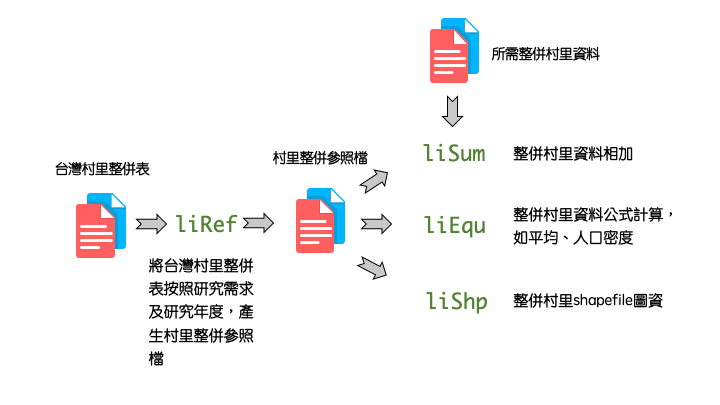
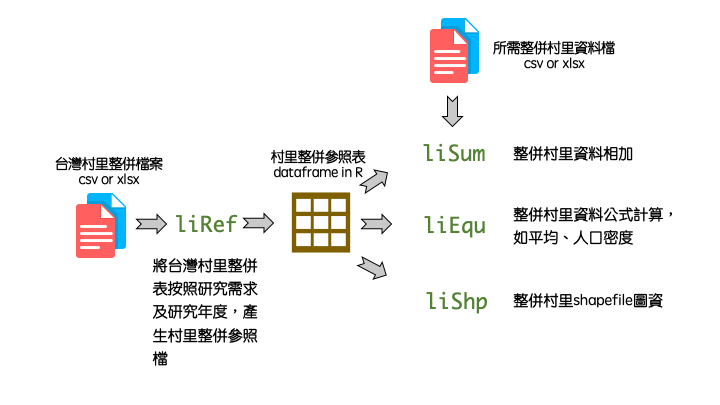
update twli code and readme

diff --git a/README.md b/README.md
@@ -1,40 +1,52 @@
+<style>
+table:nth-of-type(1) {
+    display:table;
+    width:100%;
+}
+table:nth-of-type(1) th:nth-of-type(2) {
+    width:10%;
+}
+</style>
+
 # twli
 
-台灣里套件
+台灣里R套件
 
 版本：0.01
 
-簡介：
+### 簡介：
 
 台灣約有7700多個村里，由於人口流動、行政區重新區劃，村里時常進行整併，村里整併問題造成跨年度村里分析、研究時的極大難題。台灣里套件將研究分析年度的村里整併情況進行彙整，讓使用者能根據彙整結果將各年度的村里相關數據合併後能保持一致，以利合併為各年度村里相同的面板數據（panel data）。
 
-使用說明：
+### 使用說明：
 
-1. 處理流程：
 
-![](https://github.com/torrentpien/twli/blob/master/%E7%A4%BA%E6%84%8F%E5%9C%96.png?raw=true)
+#### 1. 處理流程：
 
-台灣里套件目前初步開發四個函數，分別為liRef、liSum、liEqu、liShp，四個函數的功能及與所需整併資料的關係如下：
+  ![](https://github.com/torrentpien/twli/blob/master/%E7%A4%BA%E6%84%8F%E5%9C%96.png?raw=true)
 
-台灣村里整併表：按照台灣里套件規格編制的台灣村里整併表，對台灣里套件使用者來說，台灣村里整併表為基礎資料表格，需不斷增補與更新，紀錄研究分析所需的村里合併或分割資料，透過其他台灣里函數，將村里整併表中的紀錄進行各種村里整併。台灣村里整併表編制規格請參考。
+  台灣里套件目前初步開發四個函數，分別為liRef、liSum、liEqu、liShp，四個函數的功能及與所需整併資料的關係如下：
 
-所需整併村里資料：研究者需要整併的資料。需包含村里代碼欄位，建議使用內政部村里代碼，如桃園市桃園區文化里的村里代碼為：6800100-001。
+**台灣村里整併檔案：**按照台灣里套件規格編制的台灣村里整併檔案，使用者可按照自己的需求以csv、xlsx或其他檔案格式進行記錄。對台灣里套件使用者來說，台灣村里整併檔案為基礎資料表格，需不斷增補與更新，紀錄研究分析所需的村里合併或分割資料，透過其他台灣里函數，將村里整併檔案中的內容進行各種村里整併。台灣村里整併表編制規格請參考。
 
-liRef函數：按照研究的年度範圍及所需整併的檔案年度，將台灣村里整併表整理後產生村里整併參照檔。
+**所需整併村里資料檔：**研究者需要整併的資料。需包含村里代碼欄位，建議使用內政部村里代碼，如桃園市桃園區文化里的村里代碼為：6800100-001。
 
-村里整併參照檔：liRef函數產生的數據框（dataframe），內容為所需整併村里的分組列表，以利liSum、liEqu、liShp等函數進行運算。
+**liRef**函數：按照研究的年度範圍及所需整併的檔案年度，將台灣村里整併檔案整理後產生村里整併參照表。
 
-liSum函數：需整併村里資料的相加。
+**村里整併參照表**：liRef函數產生的R數據框（dataframe），內容為所需整併村里的分組列表，以利liSum、liEqu、liShp等函數進行運算。
 
-liEqu函數：許多需整併村里資料不是簡單的相加，需要各欄位運算後產生新數字，台灣里套件提供使用者自訂公式，計算村里整併後的新數據。
+**liSum**函數：需整併村里資料的相加。
 
-liShp函數：將村里shapefile圖資按照村里整併參照檔進行整併。
+**liEqu**函數：許多需整併村里資料不是簡單的相加，需要各欄位運算後產生新數字，台灣里套件提供使用者自訂公式，計算村里整併後的新數據。
 
-2. 安裝：
+**liShp**函數：將村里shapefile圖資按照村里整併參照檔進行整併。
 
-3. 台灣村里整併表編制規格
+#### 2. 安裝：
+
+
+#### 3. 台灣村里整併表編制規格
   
-  -必要欄位：村里代碼、年度、該年度整併模式
+   -必要欄位：村里代碼、年度、該年度整併模式
   
   如果研究分析所記錄的村里整併資料年度為2014、2018年，必要欄位如下：
 
@@ -42,17 +54,15 @@ liShp函數：將村里shapefile圖資按照村里整併參照檔進行整併。
 |    :---:    |    :---:    |    :---:    |    :---:    |    :---:    | 
 | 村里代碼 | 2014整併後最終村里代碼 | 2014年整併模式 | 2018整併後最終村里代碼 | 2018年整併模式 |
 
-必要欄位說明：
+   -必要欄位說明：
 
-li_id（村里代碼）：列出所有的村里代碼，包括因為合併後被消滅的村里。建議使用內政部村里代碼。
+      1. li_id（村里代碼）：列出所有的村里代碼，包括因為合併後被消滅的村里。建議使用內政部村里代碼。
 
-2014、2018（各年度整併後最終村里代碼）：將合併或分割的最終村里代碼，如果不只一個村里，以"|"分隔。
+      2. 2014、2018（各年度整併後最終村里代碼）：將合併或分割的最終村里代碼，如果不只一個村里，以"|"分隔。
 
-mode_2014、mode_2018（各年度整併模式）：
+      3. mode_2014、mode_2018（各年度整併模式）：包括下列四種模式，請以英文小寫編碼：
 
-包括下列四種模式，請以英文小寫編碼：
-
-m: merge，指村里合併，也就是說，li_id欄位的村里被消滅，於該年度合併進「最終村里代碼」的村里。
+  - m: merge，指村里合併，也就是說，li_id欄位的村里被消滅，於該年度合併進「最終村里代碼」的村里。
 
 s: separate，指村里分割，「最終村里代碼」的村里分割為li_id欄位的村里及「最終村里代碼」的村里。
 
@@ -63,7 +73,7 @@ vbox: vote box，指兩個村里被編為一個選舉投開票所，如果處理
 非必要欄位：  
   
    可在各年度整併後最終村里代碼前放進其他欄位，台灣村里整併表範例（li_table.xlsx）即按照下列欄位編制：
-  
+
 | city_code | city_name | district_code | district_name | li_id | li_name | li_id_dgb | 2014 | mode_2014 | 2018 | mode_2018 |
 |    :---:    |    :---:    |    :---:    |    :---:    |    :---:    |    :---:    |    :---:    |    :---:    |    :---:    |    :---:    |    :---:    |
 | 縣市代碼 | 縣市名稱 | 區代碼 | 區名稱 | 村里代碼 | 村里名稱 | 主計處村里代碼 | 2014 | mode_2014 | 2018 | mode_2018 |
@@ -104,7 +114,7 @@ vbox（一投開票所多村里）：2014年縣市長選舉，台中市西屯區
 |    :---:    |    :---:    |    :---:    |    :---:    |    :---:    |    :---:    |    :---:    |    :---:    |    :---:    |    :---:    |    :---:    |
 |  66  |  台中市  |  6600600  |  西屯區  |  6600600-035  |  福恩里  |  66000060035  |   6600600-020\|6600600-9999  |  vbox  |  |  |
 
-4. 函數說明：
+#### 4. 函數說明：
 
 liRef(year_range, file_year, li_table, vbox, done)
 
